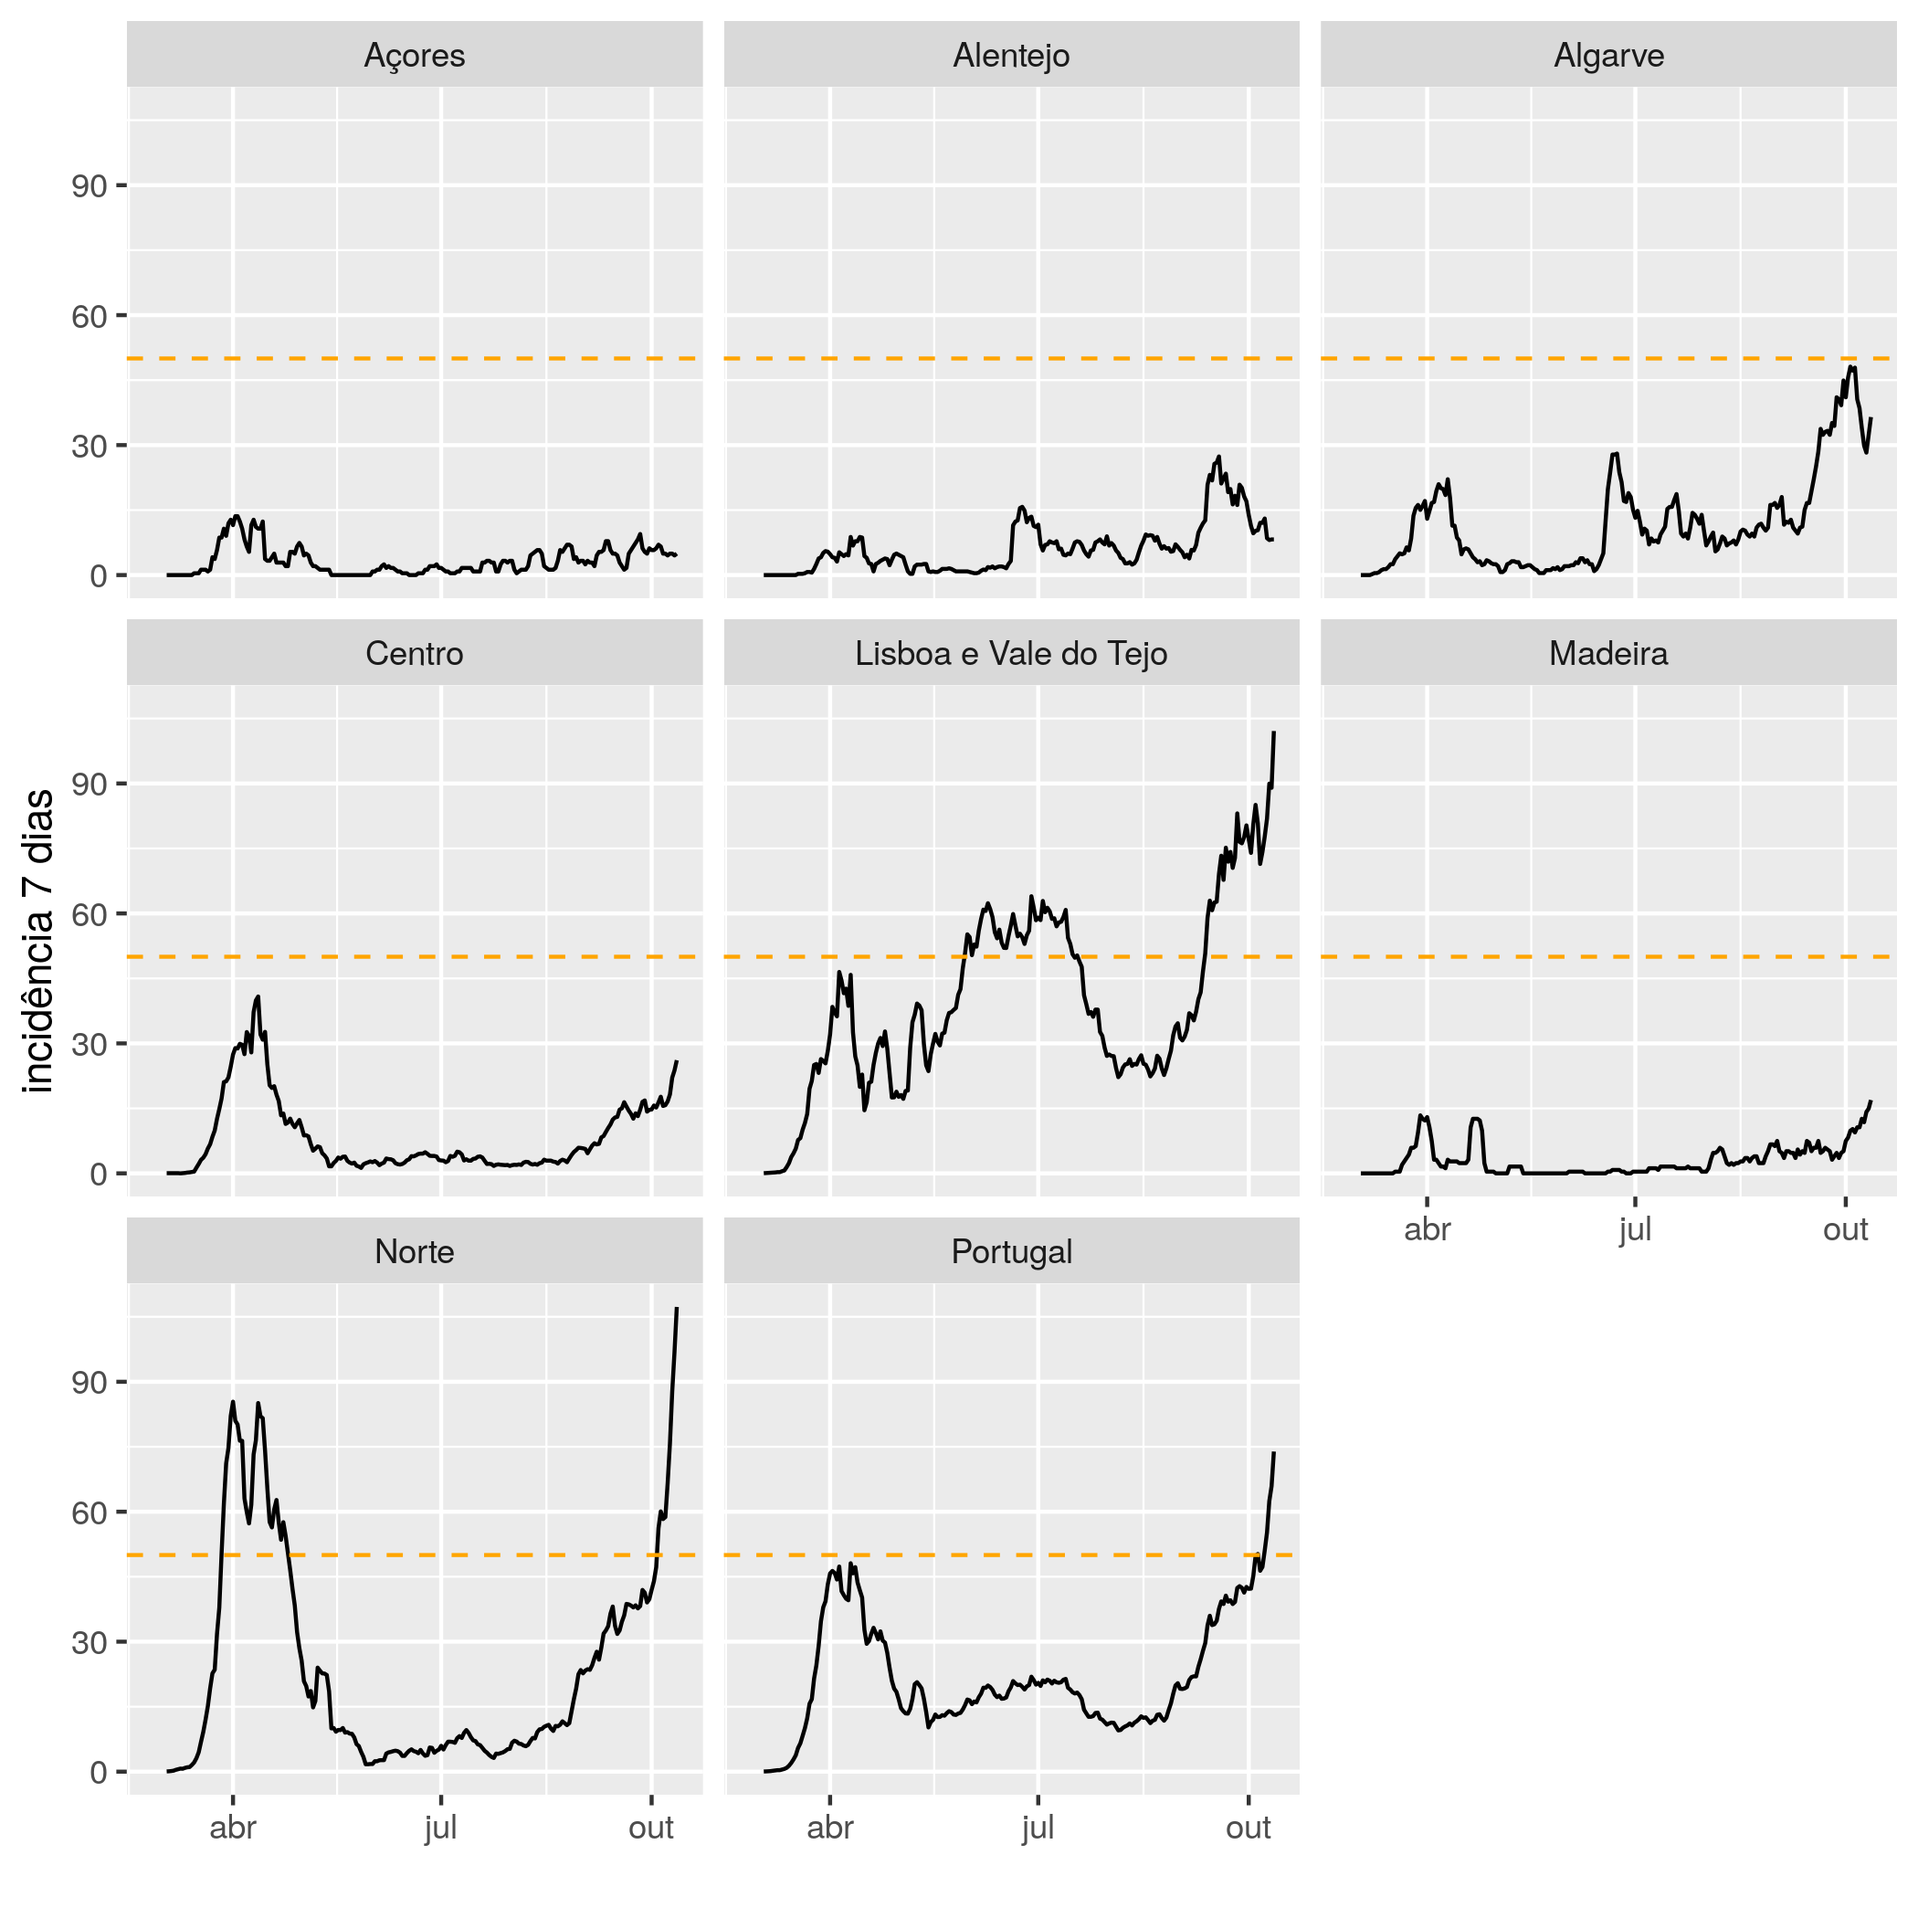
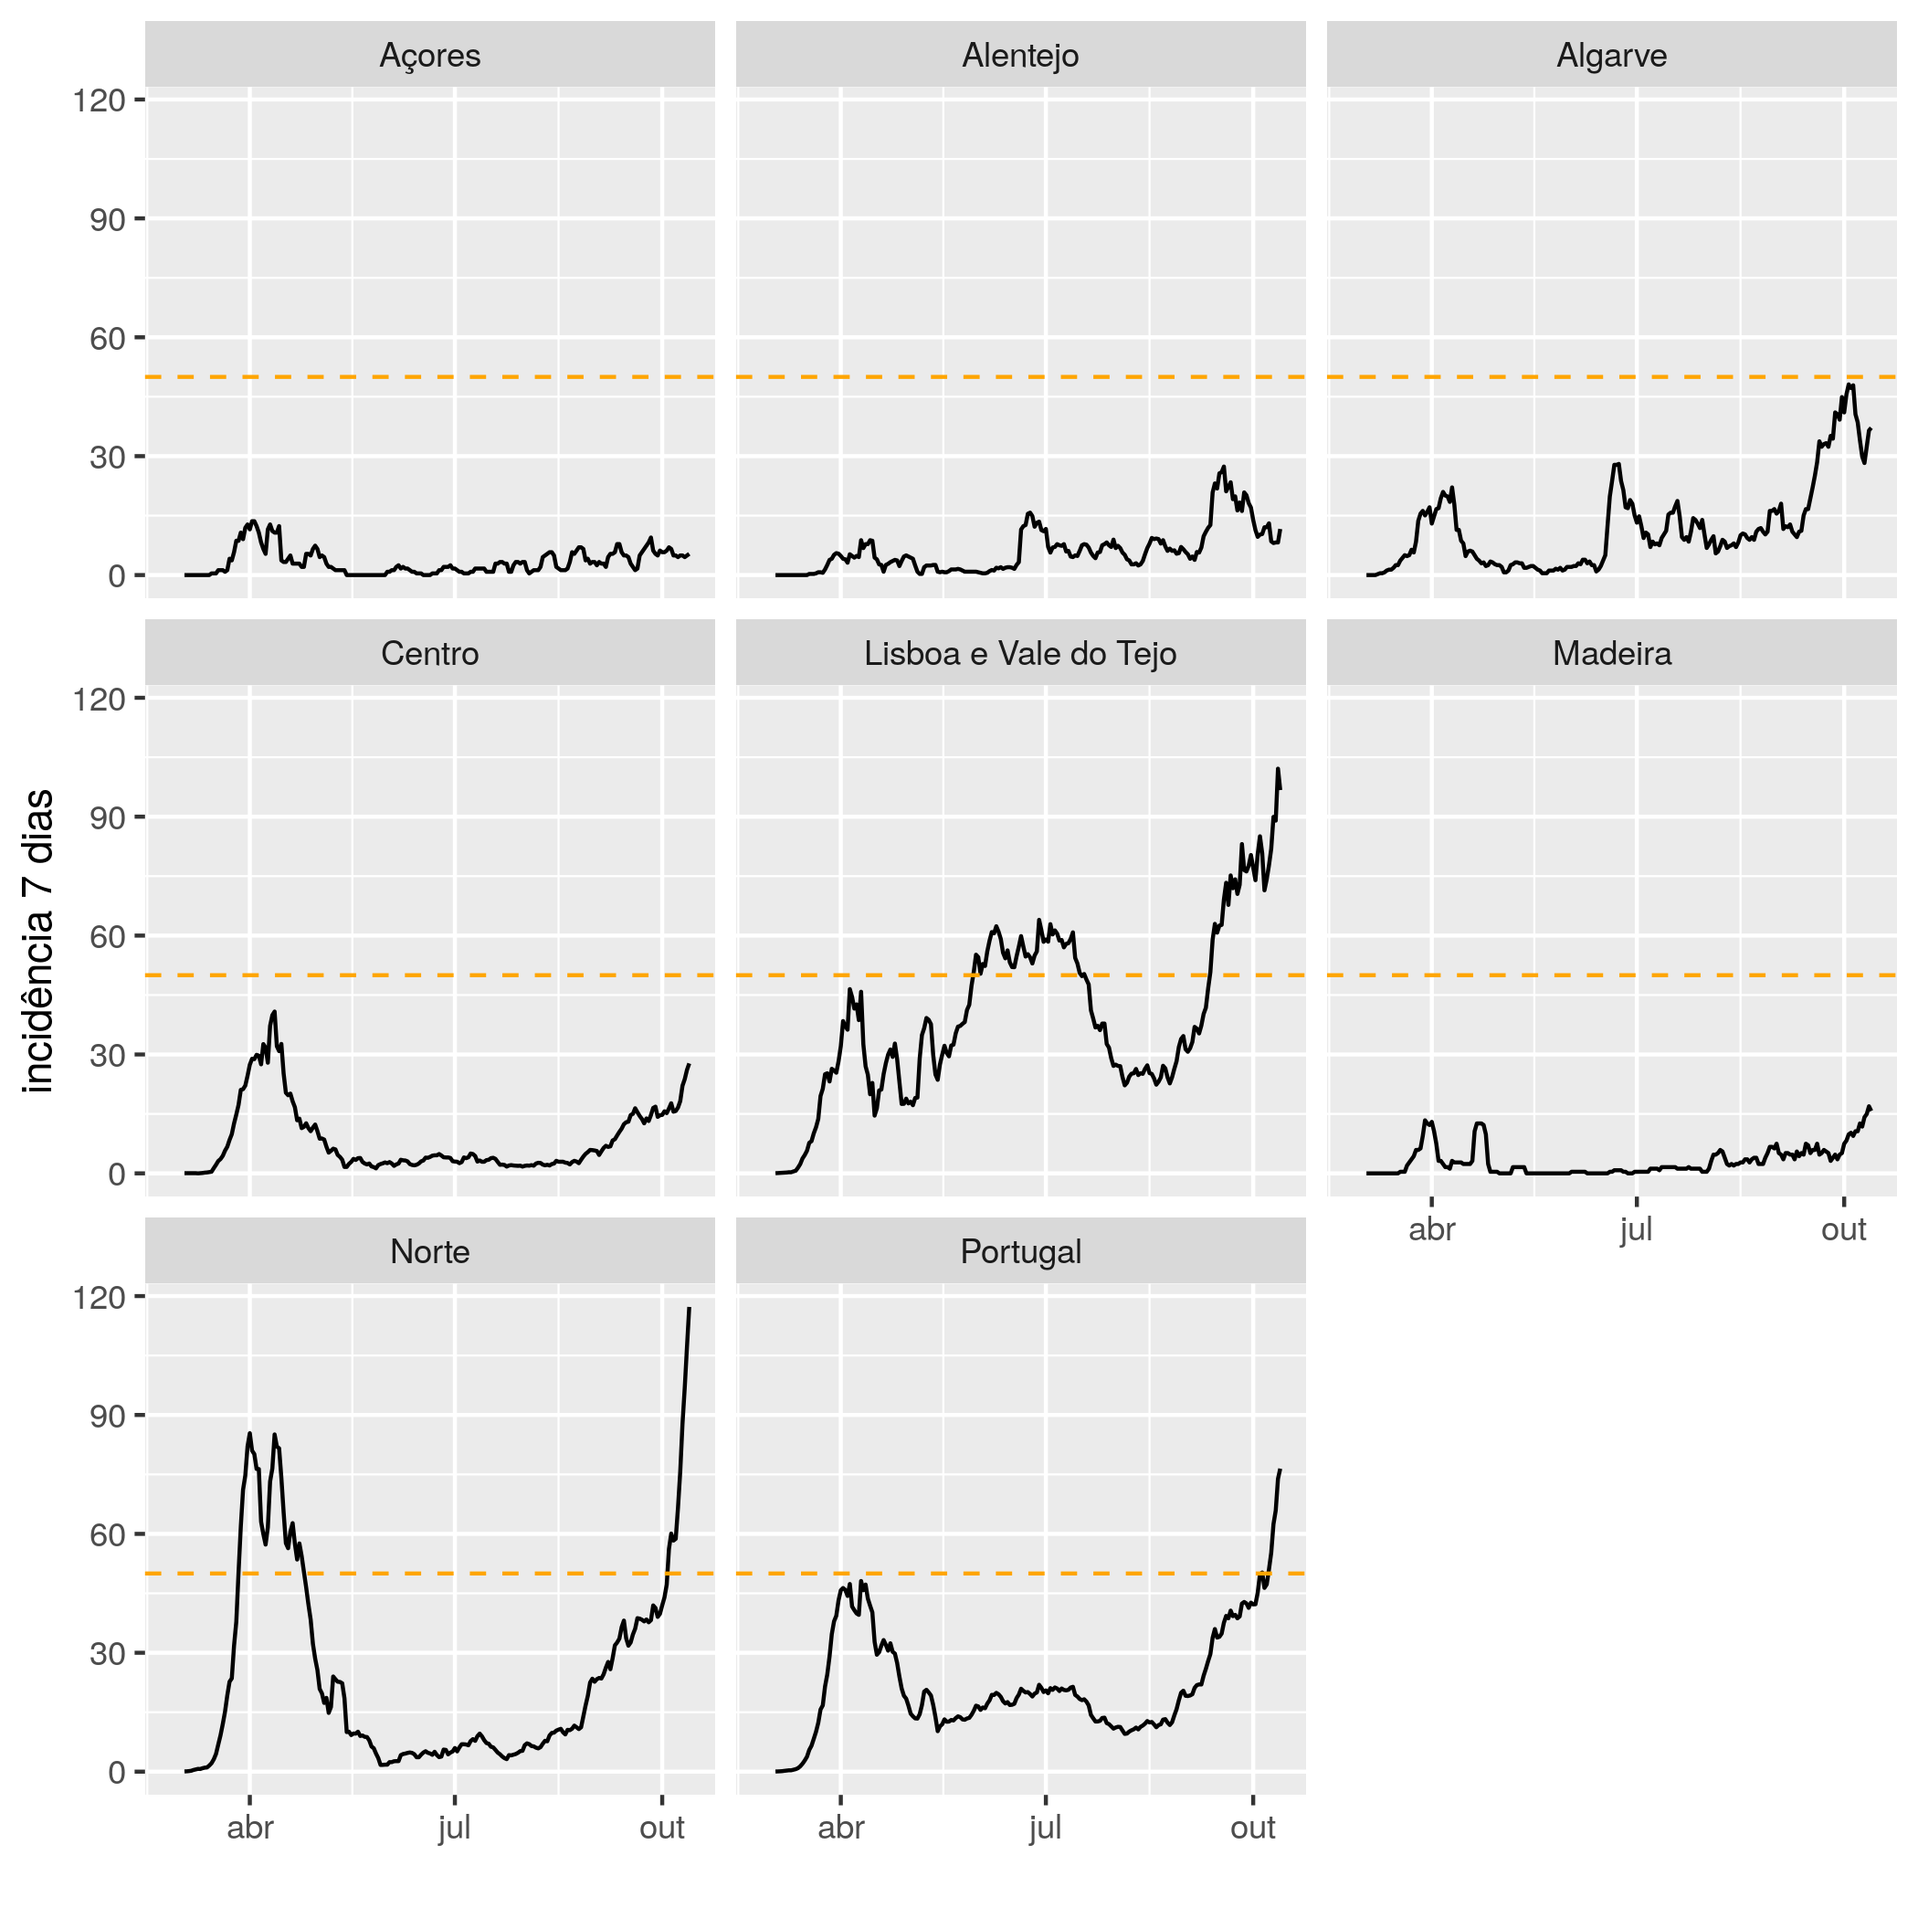
dados de terca feira

diff --git a/README.md b/README.md
@@ -1,7 +1,7 @@
 # Contexto
 A incidência por 100000 habitantes em 7 dias é o valor de referência para decretar regiões de risco pelas autoridades de saúde alemãs (valor charneira é 50, ie LVT já é região de risco). Gráficos atualizados diariamente. Para ajudar quem quer viajar para a Alemanha ou vir passar férias a Portugal.
 
-Dados mais recentes de 2020-10-12.
+Dados mais recentes de 2020-10-13.
 
 # Incidência por 100000 habitantes em 7 dias
 ## Últimos 30 dias
